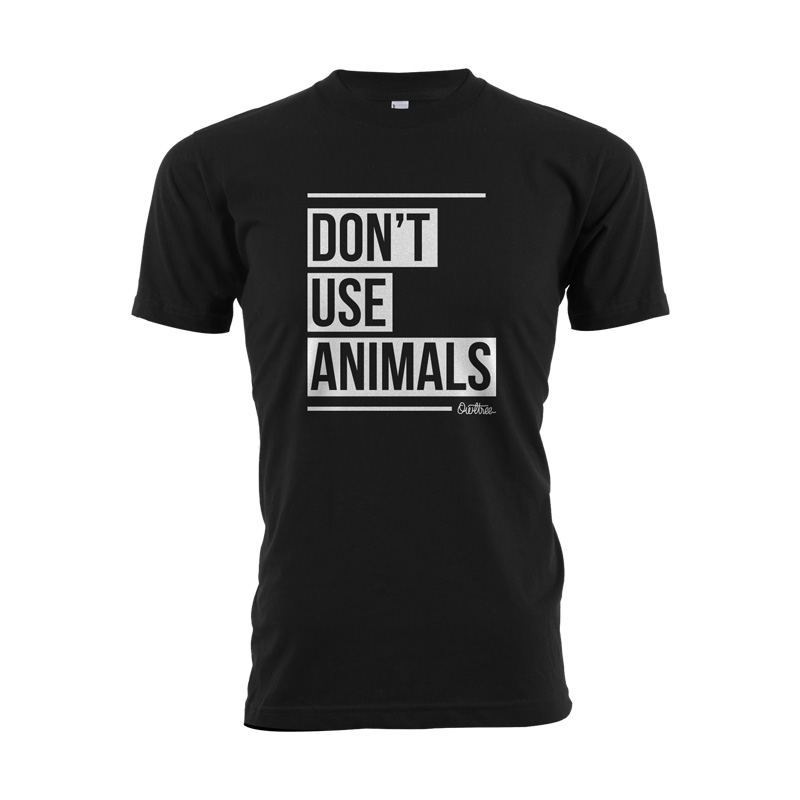
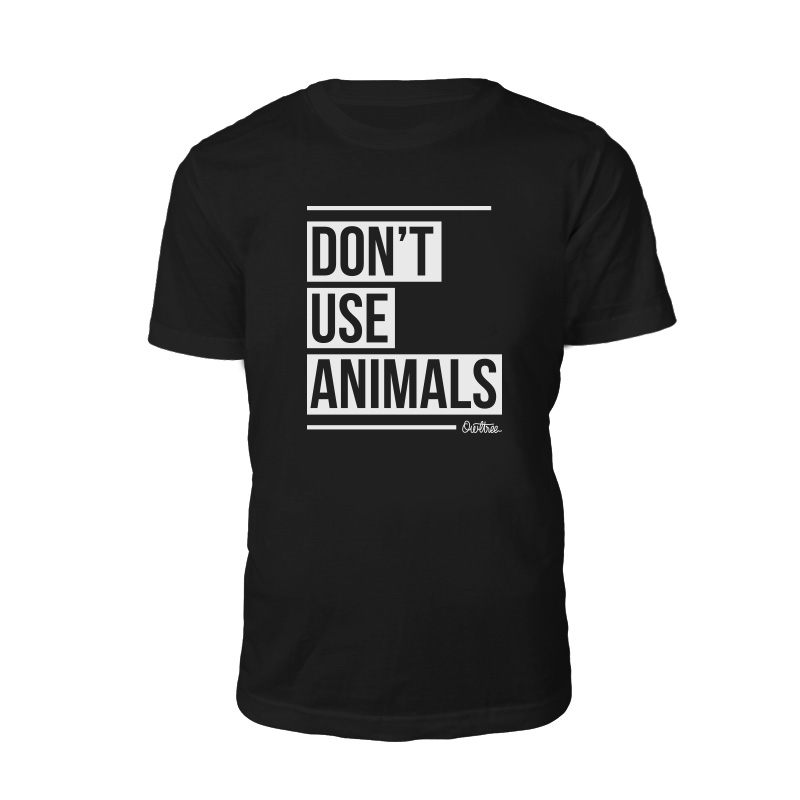
Removed old folder and fixed new t-shirts images

diff --git a/src/includes/products/product-item.html b/src/includes/products/product-item.html
@@ -69,11 +69,11 @@
                     <div class="product-tag__item product__price" itemprop="offers" itemscope itemtype="http://schema.org/Offer">
                         <span itemprop="price" content="{{child.price}}">{{child.price}}</span>
                         <span itemprop="priceCurrency" content="EUR">€</span>
-                        <!--(bake-start _if="child.stock == 'out of stock'")-->
-                        <span class="product__stock product__stock--no-stock" itemprop="availability">{{child.stock}}</span>
+                        <!--(bake-start _if="child.stockStatus == 'out of stock'")-->
+                        <span class="product__stock product__stock--no-stock" itemprop="availability">{{child.stockStatus}}</span>
                         <!--(bake-end)-->
-                        <!--(bake-start _if="child.stock != 'out of stock'")-->
-                        <span class="product__stock" itemprop="availability">{{child.stock}}</span>
+                        <!--(bake-start _if="child.stockStatus != 'out of stock'")-->
+                        <span class="product__stock" itemprop="availability">{{child.stockStatus}}</span>
                         <!--(bake-end)-->
                     </div>
                     <div class="product-tag__item product__message">{{child.message}}</div>
@@ -124,13 +124,13 @@
                         </li>
                     </ul>
                     <!--(bake-end)-->
-                    <!--(bake-start _if="child.stock == 'in stock'")-->
+                    <!--(bake-start _if="child.stockStatus == 'in stock'")-->
                     <a class="product__buy-btn btn" href="{{child.link}}" target="_blank">Buy</a>
                     <!--(bake-end)-->
-                    <!--(bake-start _if="child.stock == 'out of stock'")-->
-                    <button class="product__buy-btn btn is-disabled" disabled>Buy</button>
+                    <!--(bake-start _if="child.stockStatus == 'out of stock'")-->
+                    <button class="product__buy-btn btn is-disabled" disabled>Out of stock</button>
                     <!--(bake-end)-->
-                    <!--(bake-start _if="child.stock == 'preorder'")-->
+                    <!--(bake-start _if="child.stockStatus == 'preorder'")-->
                     <a class="product__buy-btn btn" href="{{child.link}}" target="_blank">Preorder</a>
                     <!--(bake-end)-->
                     <hr class="product__separator product__separator--big">
